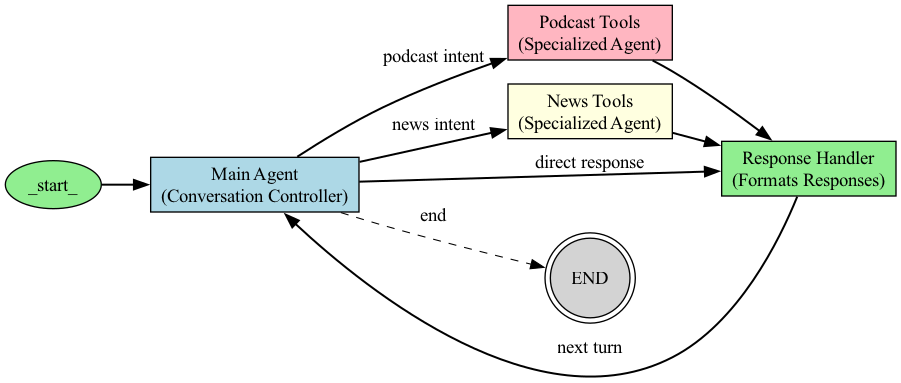
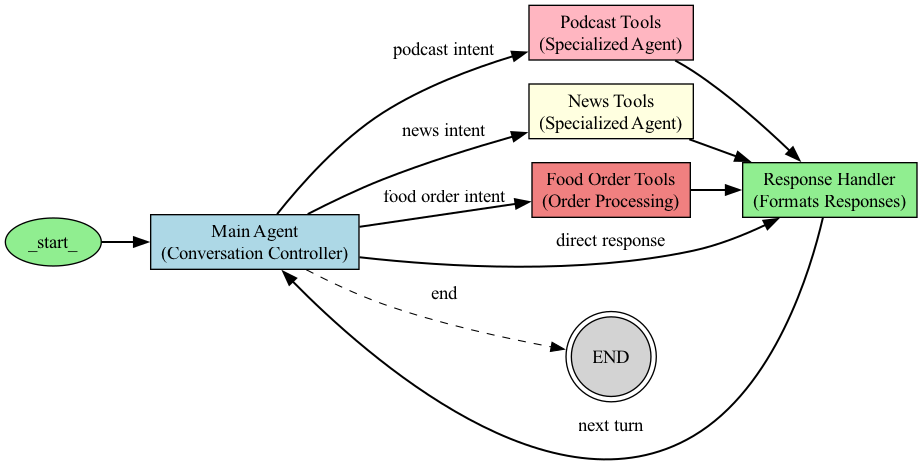
made some changes to the agent graph

diff --git a/graph/workflow.py b/graph/workflow.py
@@ -15,6 +15,7 @@ from config import DEFAULT_MODEL, TEMPERATURE, OPENAI_API_KEY
 # Import all your tools
 from tools.podcast_tools import podcast_tools
 from tools.news_tools import get_recent_news
+from tools.food_tools import food_tools
 from utils.formatting import format_response, format_podcast_response, format_news_response
 
 # Import debug utilities
@@ -87,6 +88,18 @@ def create_info_assistant():
             content = content.lower()
             verbose_print(f"MAIN_AGENT - Processing message: {content}")
             
+            # Check for food ordering intents
+            food_order_keywords = [
+                "order food", "order a pizza", "food delivery", "order pizza", "get food", 
+                "place an order", "hungry", "deliver food", "takeout", "food order",
+                "pizza", "order", "want to order", "want pizza"
+            ]
+            
+            # More flexible detection for food ordering
+            if any(term in content for term in food_order_keywords) or state.get("current_task") == "food_order" or "want" in content and "pizza" in content:
+                verbose_print("MAIN_AGENT - Detected food ordering query, routing to food_ordering_node")
+                return {"next": "food_order"}
+            
             # Expanded podcast-related keyword detection
             podcast_keywords = [
                 "podcast", "episode", "listen", "audio show", "similar to",
@@ -118,11 +131,12 @@ def create_info_assistant():
                     classification_prompt = """Classify this query into exactly one of these categories:
                     - 'podcast' (if about podcast recommendations, episodes, listening to audio content)
                     - 'news' (if about recent events, updates, current affairs)
+                    - 'food_order' (if about ordering food, delivery, takeout, restaurants)
                     - 'general' (for general knowledge questions)
                     
                     Query: """ + content + """
                     
-                    Classification (respond with only one word, either 'podcast', 'news', or 'general'):"""
+                    Classification (respond with only one word, either 'podcast', 'news', 'food_order', or 'general'):"""
                     
                     classification = llm.invoke(classification_prompt)
                     verbose_print(f"MAIN_AGENT - LLM classification result: {classification}")
@@ -133,6 +147,9 @@ def create_info_assistant():
                     elif "news" in classification.content.lower():
                         verbose_print("MAIN_AGENT - LLM classified as news query, routing to news_tools")
                         return {"next": "news_tools"}
+                    elif "food" in classification.content.lower() or "order" in classification.content.lower():
+                        verbose_print("MAIN_AGENT - LLM classified as food order query, routing to food_order")
+                        return {"next": "food_order"}
                 except Exception as e:
                     verbose_print(f"MAIN_AGENT - Error in LLM classification: {str(e)}")
             
@@ -402,7 +419,141 @@ Format your response as JSON:
                 }
             }
     
-    # 2.4 Response handler node - Fixed state management
+    # 2.4 Food ordering node
+    def food_ordering_node(state: InfoAssistantState, config: ConfigSchema) -> InfoAssistantState:
+        """Process food ordering requests and handle order flow."""
+        # Import debugging utility
+        try:
+            debug_log("FOOD_ORDER - Entering food_ordering_node")
+        except ImportError:
+            verbose_print("FOOD_ORDER - Debug logging not available")
+            
+        try:
+            messages = state["messages"]
+            last_message = messages[-1]
+            
+            # Handle different message formats
+            if isinstance(last_message, dict) and "content" in last_message:
+                content = last_message["content"]
+                # Create a HumanMessage object for the agent executor
+                last_message = HumanMessage(content=content)
+            elif isinstance(last_message, HumanMessage):
+                content = last_message.content
+            else:
+                content = str(last_message)
+                last_message = HumanMessage(content=content)
+                
+            verbose_print(f"FOOD_ORDER - Processing message: {content}")
+            
+            food_order_history = state.get("food_order_history", [])
+            context = state.get("context", {})
+            
+            # Create specialized food ordering agent
+            # Use the configured model from config if available
+            model_name = config.get("model_name", DEFAULT_MODEL)
+            llm = ChatOpenAI(model=model_name, temperature=TEMPERATURE, api_key=OPENAI_API_KEY)
+            verbose_print("FOOD_ORDER - Created LLM instance")
+            
+            # Create prompt template for the food ordering agent
+            system_message = config.get("system_prompt", """You are a food ordering assistant. Your goal is to help the user place food orders based on their preferences and queries. You have access to several specialized tools for food ordering.
+            
+Think step by step about which food ordering tool would best serve the user's request.
+Be thorough but concise in your tool usage.""")
+            
+            prompt = ChatPromptTemplate.from_messages([
+                ("system", system_message),
+                MessagesPlaceholder("messages"),
+                MessagesPlaceholder("agent_scratchpad"),
+            ])
+            
+            verbose_print("FOOD_ORDER - Creating agent with food ordering tools")
+            try:
+                agent = create_tool_calling_agent(llm, food_tools, prompt)
+                agent_executor = AgentExecutor(agent=agent, tools=food_tools)
+                
+                # Execute the agent with just the last message
+                verbose_print("FOOD_ORDER - Invoking agent executor")
+                result = agent_executor.invoke({"messages": [last_message]})
+                verbose_print(f"FOOD_ORDER - Agent returned result with {len(result['messages'])} messages")
+                
+                # Extract tool results
+                tool_outputs = [msg for msg in result["messages"] if isinstance(msg, ToolMessage)]
+                verbose_print(f"FOOD_ORDER - Found {len(tool_outputs)} tool message outputs")
+                
+                tool_results = []
+                
+                # Process tool outputs
+                for tool_msg in tool_outputs:
+                    verbose_print(f"FOOD_ORDER - Processing tool message: {type(tool_msg).__name__}")
+                    if hasattr(tool_msg, "content"):
+                        content = tool_msg.content
+                        verbose_print(f"FOOD_ORDER - Tool message content type: {type(content).__name__}")
+                        if isinstance(content, str):
+                            try:
+                                content = json.loads(content)
+                                verbose_print("FOOD_ORDER - Successfully parsed content as JSON")
+                            except Exception as e:
+                                verbose_print(f"FOOD_ORDER - Failed to parse as JSON: {e}")
+                                content = {"text_result": content}
+                                
+                        tool_results.append(content)
+                        food_order_history.append(content)
+                
+                # Get the AI reasoning about the results, but don't add it to messages yet
+                ai_messages = [msg for msg in result["messages"] if isinstance(msg, AIMessage)]
+                verbose_print(f"FOOD_ORDER - Found {len(ai_messages)} AI messages")
+                
+                final_ai_message = ai_messages[-1] if ai_messages else None
+                verbose_print(f"FOOD_ORDER - Final AI message: {final_ai_message.content if final_ai_message else 'None'}")
+                
+                # Store everything needed for the main agent to craft a response
+                verbose_print(f"FOOD_ORDER - Finished processing with {len(tool_results)} results")
+                return {
+                    **state,
+                    "food_order_history": food_order_history,
+                    "current_task": "food_order",
+                    "last_tool_used": "food_order_tool",
+                    "tool_results": {
+                        "type": "food_order",
+                        "data": tool_results,
+                        "ai_reasoning": final_ai_message.content if final_ai_message else None,
+                        "pending": True
+                    }
+                }
+            except Exception as e:
+                import traceback
+                verbose_print(f"FOOD_ORDER - Error: {e}")
+                verbose_print(traceback.format_exc())
+                
+                # Return a state that indicates an error occurred
+                return {
+                    **state,
+                    "food_order_history": food_order_history,
+                    "current_task": "food_order",
+                    "last_tool_used": "food_order_tool",
+                    "tool_results": {
+                        "type": "food_order",
+                        "error": str(e),
+                        "pending": True
+                    }
+                }
+        except Exception as e:
+            verbose_print(f"FOOD_ORDER - Critical error: {str(e)}")
+            import traceback
+            verbose_print(traceback.format_exc())
+            
+            return {
+                **state,
+                "current_task": "food_order",
+                "last_tool_used": "food_order_tool",
+                "tool_results": {
+                    "type": "food_order",
+                    "error": str(e),
+                    "pending": True
+                }
+            }
+    
+    # 2.5 Response handler node - Fixed state management
     def respond_node(state: InfoAssistantState, config: ConfigSchema) -> Dict[str, Any]:
         """Process all accumulated information and craft a final response."""
         try:
@@ -440,6 +591,7 @@ Format your response as JSON:
             # Check for news data in news_history even if tool_results isn't marked correctly
             news_history = state.get("news_history", [])
             podcast_history = state.get("podcast_history", [])
+            food_order_history = state.get("food_order_history", [])
             
             response_content = ""
             
@@ -491,6 +643,14 @@ Format your response as JSON:
                         # Format a nice response using the utility function
                         from utils.formatting import format_news_response
                         response_content = format_news_response(news_data, topic, days_back)
+                
+                elif result_type == "food_order":
+                    # Use the existing response if already crafted by the food_order tool
+                    if "message" in messages[-1].content:
+                        response_content = messages[-1].content
+                    else:
+                        # Use a generic response for food orders
+                        response_content = "I've processed your food order request. Is there anything else you need help with?"
                 
                 # Clear the pending flag
                 tool_results["pending"] = False
@@ -544,6 +704,8 @@ Format your response as JSON:
                 "messages": new_messages,
                 "podcast_history": state.get("podcast_history", []),
                 "news_history": state.get("news_history", []),
+                "food_order_history": state.get("food_order_history", []),
+                "food_order_state": state.get("food_order_state", None),
                 "current_task": current_task,  # Keep the original task
                 "last_tool_used": state.get("last_tool_used"),
                 "context": state.get("context", {}),
@@ -569,6 +731,7 @@ Format your response as JSON:
                 "messages": list(state.get("messages", [])) + [emergency_message],
                 "podcast_history": state.get("podcast_history", []),
                 "news_history": state.get("news_history", []),
+                "food_order_history": state.get("food_order_history", []),
                 "current_task": state.get("current_task", "general"),
                 "last_tool_used": state.get("last_tool_used", ""),
                 "context": state.get("context", {}),
@@ -583,24 +746,31 @@ Format your response as JSON:
     workflow.add_node("main_agent", main_agent)
     workflow.add_node("podcast_tools", podcast_tools_node)
     workflow.add_node("news_tools", news_tools_node)
+    workflow.add_node("food_order", food_ordering_node)
     workflow.add_node("respond", respond_node)
     
     # 3.2 Define edges - conditional routing from main router to tool nodes
     workflow.set_entry_point("main_agent")
+    
+    # Define routing conditions map explicitly to ensure food_order is properly registered
+    routing_conditions = {
+        "podcast_tools": "podcast_tools",
+        "news_tools": "news_tools",
+        "food_order": "food_order",  # Make sure this is explicitly defined
+        "respond": "respond",
+        "END": END
+    }
+    
     workflow.add_conditional_edges(
         "main_agent",
         lambda x: x.get("next", "respond"),  # Extract the "next" key with a fallback to respond
-        {
-            "podcast_tools": "podcast_tools",
-            "news_tools": "news_tools",
-            "respond": "respond",
-            "END": END
-        }
+        routing_conditions
     )
     
     # 3.3 Connect tool nodes back to respond
     workflow.add_edge("podcast_tools", "respond")
     workflow.add_edge("news_tools", "respond")
+    workflow.add_edge("food_order", "respond")
     
     # 4. Compile and return the graph
     return workflow.compile()
